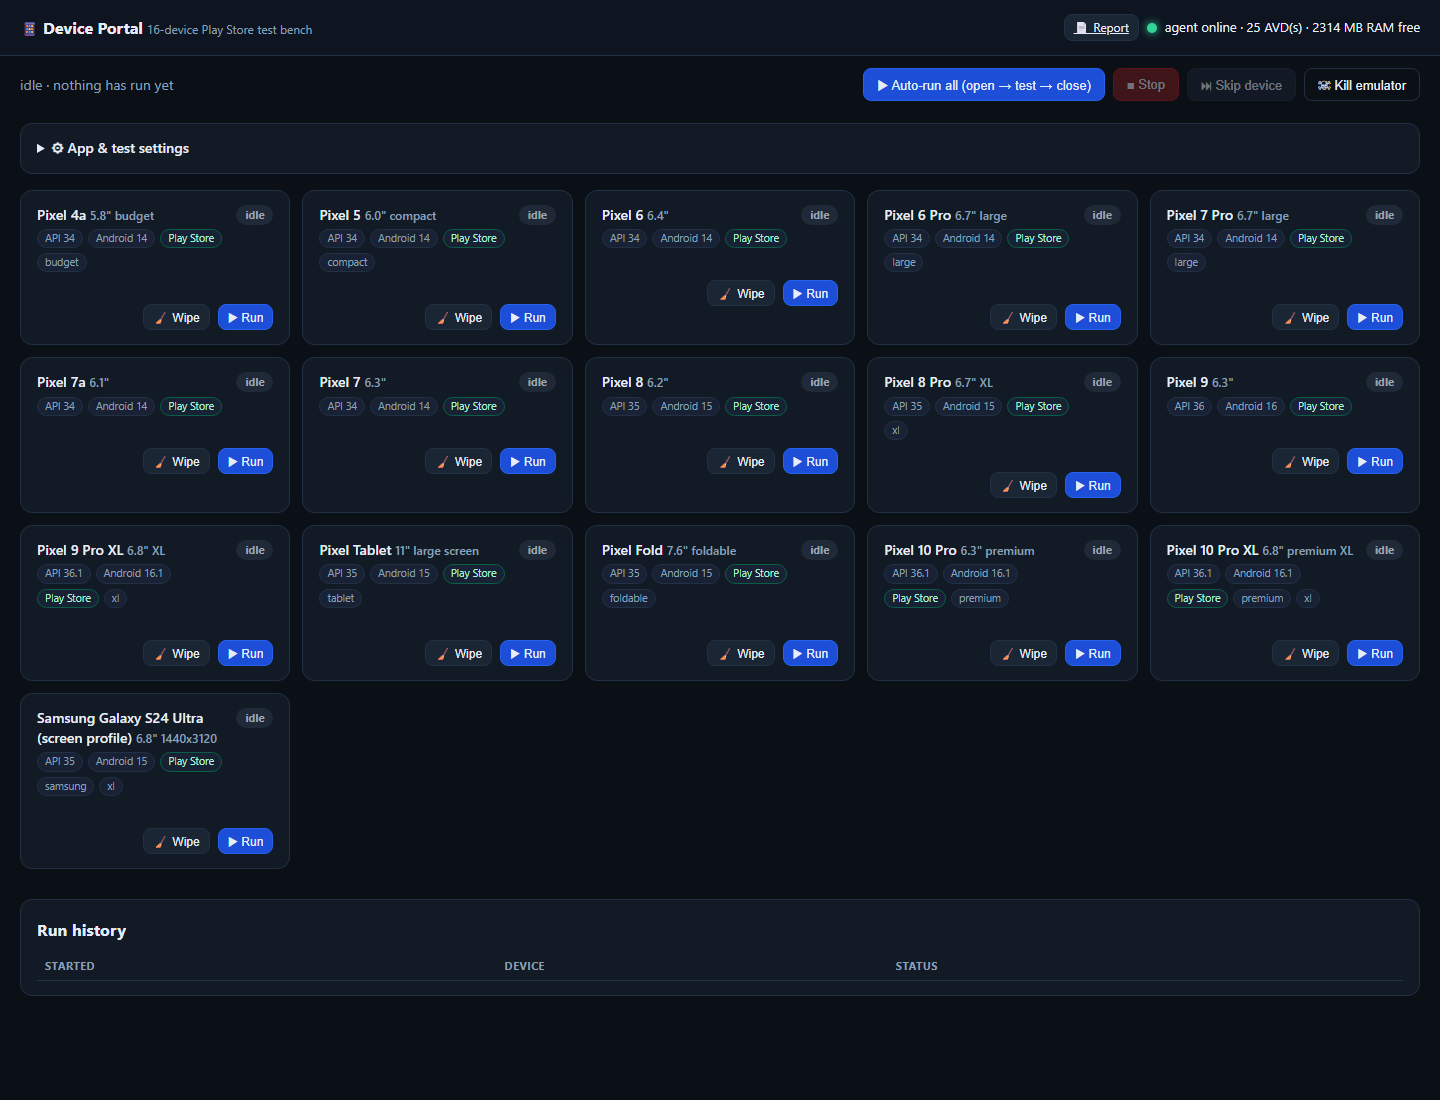
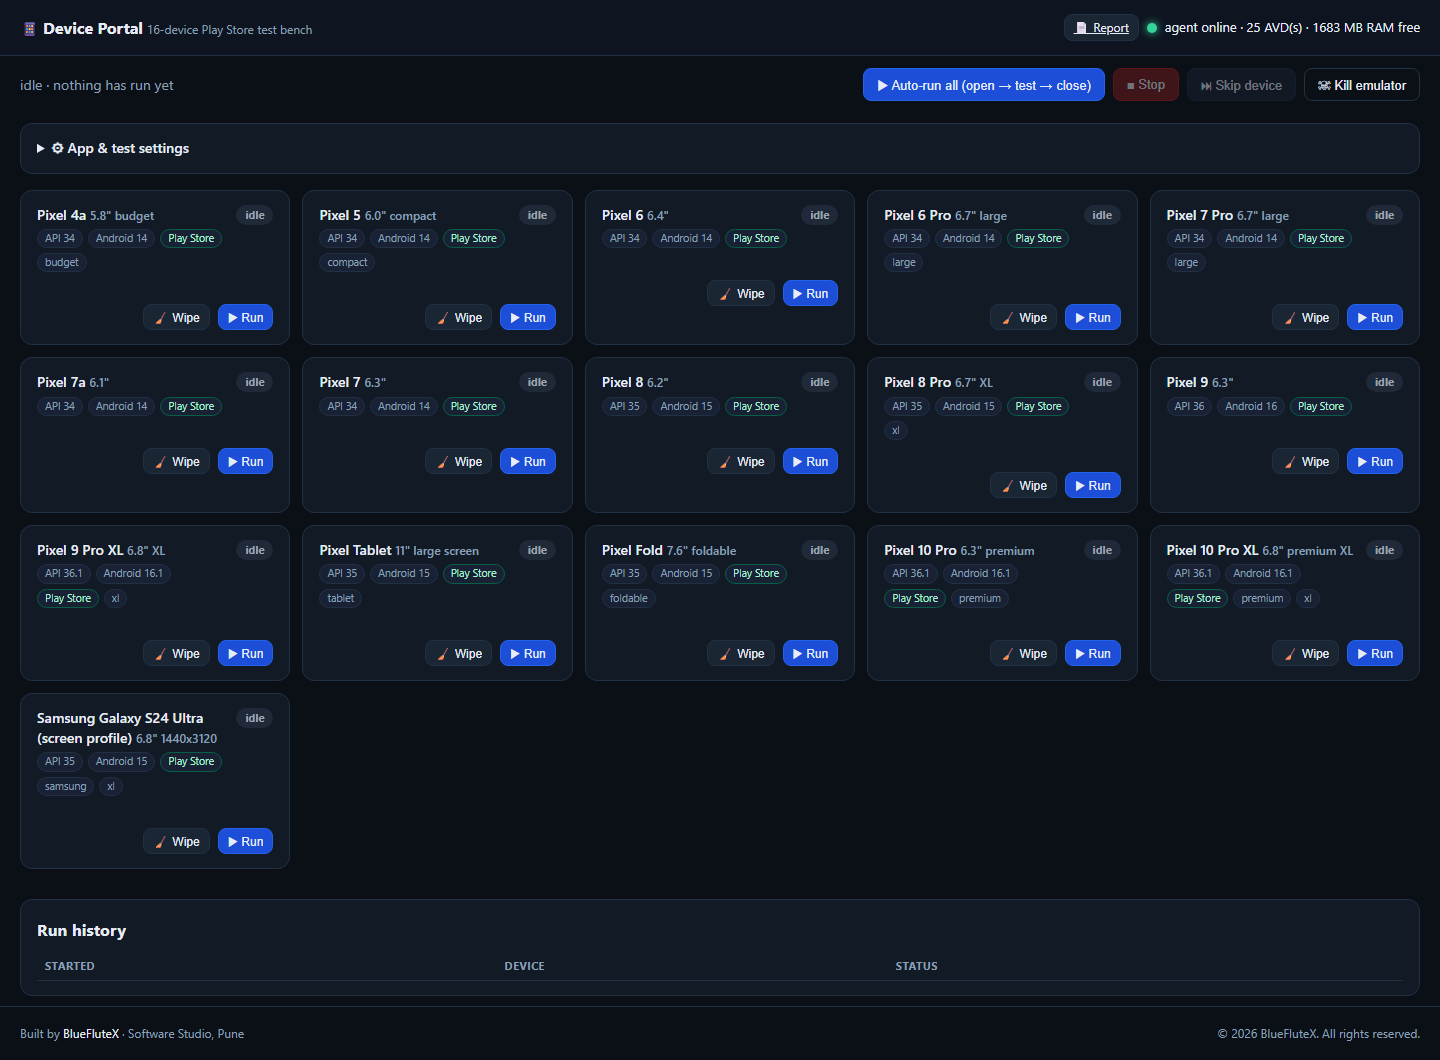
Credit BlueFluteX in licensing and project attribution

diff --git a/portal/web/style.css b/portal/web/style.css
@@ -132,3 +132,11 @@ a { color: var(--accent); }
 }
 .toast.show { transform: translate(-50%, 0); opacity: 1; }
 .toast.error { border-color: var(--red); background: #2a1417; color: #fecaca; }
+
+.site-foot {
+  display: flex; justify-content: space-between; align-items: center; gap: 12px; flex-wrap: wrap;
+  padding: 18px 20px 28px; margin-top: 10px; border-top: 1px solid var(--border);
+  color: var(--muted); font-size: 12px;
+}
+.site-foot a { color: var(--text); text-decoration: none; }
+.site-foot a:hover { color: var(--accent); }

diff --git a/portal/web/index.html b/portal/web/index.html
@@ -93,6 +93,11 @@
   </table>
 </section>
 
+<footer class="site-foot">
+  <span>Built by <a href="https://blueflutex.gt.tc/" target="_blank" rel="noopener noreferrer">BlueFluteX</a> · Software Studio, Pune</span>
+  <span>© 2026 BlueFluteX. All rights reserved.</span>
+</footer>
+
 <div class="modal" id="modal" hidden>
   <div class="modal-box">
     <div class="row" style="justify-content:space-between">

diff --git a/README.md b/README.md
@@ -1,5 +1,7 @@
 <div align="center">
 
+<img src="docs/blueflutex-badge.svg" alt="BlueFluteX" width="76" height="76">
+
 # 📱 Android Device Portal
 
 **Run your Android app through 16 device profiles — one emulator at a time, unattended.**
@@ -15,6 +17,7 @@ and moves to the next device.
 [![Python 3.10+](https://img.shields.io/badge/python-3.10%2B-blue.svg)](https://www.python.org/)
 [![Platform: Windows](https://img.shields.io/badge/platform-Windows-0078D6.svg)](#requirements)
 [![Docker](https://img.shields.io/badge/docker-compose-2496ED.svg?logo=docker&logoColor=white)](#quick-start-docker)
+[![Built by BlueFluteX](https://img.shields.io/badge/built%20by-BlueFluteX-0f766e.svg)](https://blueflutex.gt.tc/)
 
 [Features](#features) · [Architecture](#architecture) · [Quick start](#quick-start-docker) · [Device matrix](#the-16-device-matrix) · [Configuration](#configuration) · [Troubleshooting](#troubleshooting) · [Contributing](#contributing)
 
@@ -324,14 +327,25 @@ py -3 -m venv portal\.venv
 Please follow the [Code of Conduct](CODE_OF_CONDUCT.md). For security issues,
 use the private reporting flow in [SECURITY.md](SECURITY.md), not a public issue.
 
+## Built by BlueFluteX
+
+Android Device Portal is designed and maintained by **BlueFluteX**, a software
+studio in Pune, India. We build mobile, desktop, and AI systems that are
+architected to be extended, not rewritten.
+
+- **Website:** <https://blueflutex.gt.tc/>
+- **Email:** <vikasshu7@gmail.com>
+- **Studio:** Pune, Maharashtra, India
+- **Tagline:** *Code with Harmony*
+
 ## License
 
 Released under the [MIT License](LICENSE).
 
-Copyright © 2026 Vikas.
+Copyright © 2026 **BlueFluteX**. All rights reserved.
 
 ---
 
 <div align="center">
-  <sub>Built for developers who would rather ship than babysit an emulator.</sub>
+  <sub>Built with care by <a href="https://blueflutex.gt.tc/">BlueFluteX</a> · Pune, India</sub>
 </div>

diff --git a/AGENTS.md b/AGENTS.md
@@ -1,0 +1,50 @@
+# Android Device Portal — project instructions
+
+## Company attribution (required)
+
+This project is owned and maintained by **BlueFluteX**.
+
+- Website: <https://blueflutex.gt.tc/>
+- Studio: Pune, Maharashtra, India
+- Contact: <vikasshu7@gmail.com>
+- Tagline: *Code with Harmony*
+
+Keep BlueFluteX attribution in `LICENSE`, `README.md`, `pyproject.toml`,
+`portal/Dockerfile` OCI labels, the portal footer, and release notes. Do not
+remove upstream or third-party notices.
+
+## Architecture
+
+- `portal/` — FastAPI app, orchestrator, SQLite store, and static web UI.
+- `host-agent/` — Windows-only Python agent; **standard library only**.
+- `config/devices.json` — the device matrix, read live by the portal.
+- `scripts/` — PowerShell bootstrap, doctor, and no-Docker launcher.
+- `tests/` — pytest suite for config and persistence.
+
+The agent drives exactly one emulator at a time. Do not introduce parallel
+emulator execution; the RAM budget and the design assume a single guest.
+
+## Commands
+
+```powershell
+# Install development dependencies
+.\portal\.venv\Scripts\python.exe -m pip install -r requirements-dev.txt
+
+# Lint, tests, syntax check
+.\portal\.venv\Scripts\python.exe -m ruff check .
+.\portal\.venv\Scripts\python.exe -m pytest
+.\portal\.venv\Scripts\python.exe -m compileall -q portal host-agent
+
+# Run without Docker
+scripts\run_host.ps1
+```
+
+## Rules
+
+- Never commit `.env`, `host-agent/agent-config.json`, `data/`, or `tools/`.
+- The agent must remain dependency-free (Python standard library only).
+- Keep PowerShell scripts compatible with Windows PowerShell 5.1.
+- Update `CHANGELOG.md` and the version in `pyproject.toml` for user-visible
+  changes.
+- Release notes must credit **BlueFluteX** and link to
+  <https://blueflutex.gt.tc/>.

diff --git a/CHANGELOG.md b/CHANGELOG.md
@@ -7,6 +7,16 @@ and this project adheres to [Semantic Versioning](https://semver.org/spec/v2.0.0
 
 ## [Unreleased]
 
+## [1.0.1] - 2026-10-31
+
+### Changed
+
+- Updated the copyright holder and project attribution to **BlueFluteX**, the
+  software studio behind the project.
+- Added BlueFluteX company links and contact details to the README, package
+  metadata, container labels, portal footer, and security policy.
+- Added a project-level `AGENTS.md` with build, test, and branding guidance.
+
 ## [1.0.0] - 2026-10-31
 
 ### Added
@@ -28,5 +38,6 @@ and this project adheres to [Semantic Versioning](https://semver.org/spec/v2.0.0
 - Agent token authentication with portal-side proxying of screenshots.
 - MIT license, contribution guide, security policy, and CI checks.
 
-[Unreleased]: https://github.com/vikasdocker/android-device-portal/compare/v1.0.0...HEAD
+[Unreleased]: https://github.com/vikasdocker/android-device-portal/compare/v1.0.1...HEAD
+[1.0.1]: https://github.com/vikasdocker/android-device-portal/releases/tag/v1.0.1
 [1.0.0]: https://github.com/vikasdocker/android-device-portal/releases/tag/v1.0.0

diff --git a/CODE_OF_CONDUCT.md b/CODE_OF_CONDUCT.md
@@ -58,10 +58,8 @@ representative at an online or offline event.
 ## Enforcement
 
 Instances of abusive, harassing, or otherwise unacceptable behavior may be
-reported to the project maintainers by opening a confidential report through
-GitHub's [report abuse](https://github.com/contact/report-abuse) flow or by
-contacting the repository owner directly. All complaints will be reviewed and
-investigated promptly and fairly.
+reported to the BlueFluteX maintainers at <vikasshu7@gmail.com>. All complaints
+will be reviewed and investigated promptly and fairly.
 
 All community leaders are obligated to respect the privacy and security of the
 reporter of any incident.

diff --git a/SECURITY.md b/SECURITY.md
@@ -13,6 +13,10 @@ Please do **not** open a public issue for a security problem.
 Use GitHub's private vulnerability reporting form:
 <https://github.com/vikasdocker/android-device-portal/security/advisories/new>
 
+You can also email the BlueFluteX team at <vikasshu7@gmail.com> with the subject
+`[security] Android Device Portal`. Please do not include exploit details in a
+public issue.
+
 Include:
 
 - A description of the issue and its impact.

diff --git a/CONTRIBUTING.md b/CONTRIBUTING.md
@@ -1,5 +1,6 @@
 # Contributing to Android Device Portal
 
+Android Device Portal is a [BlueFluteX](https://blueflutex.gt.tc/) project.
 Thanks for taking the time to contribute. This project is a Windows-first,
 single-machine test harness, so changes should keep that deployment model in
 mind: one emulator at a time, no cloud dependency, and no secrets in the repo.
